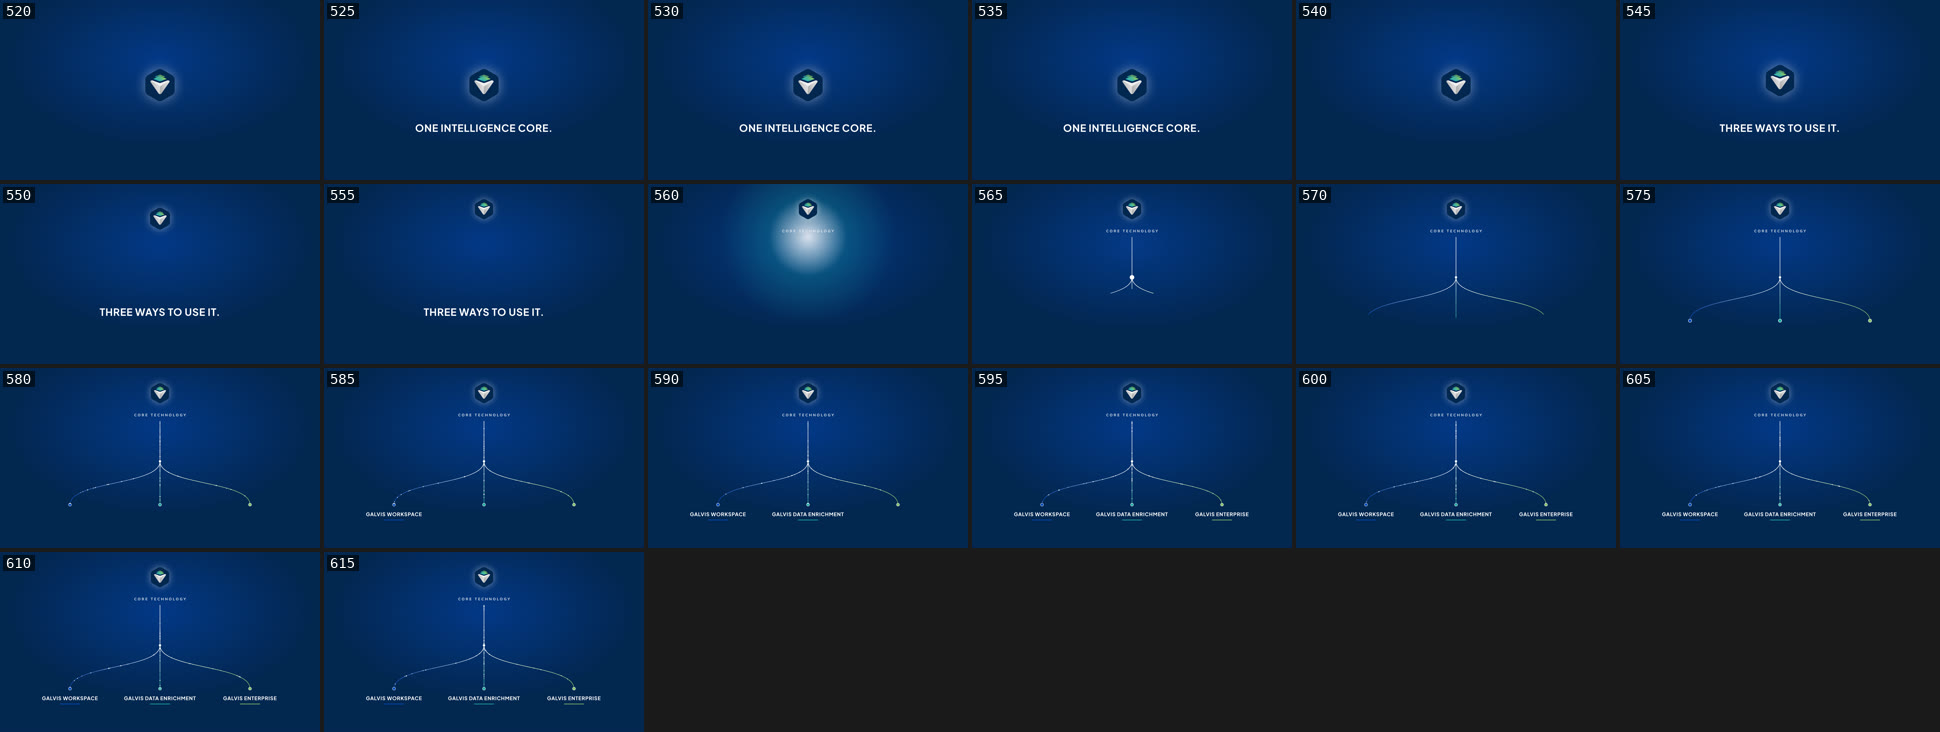
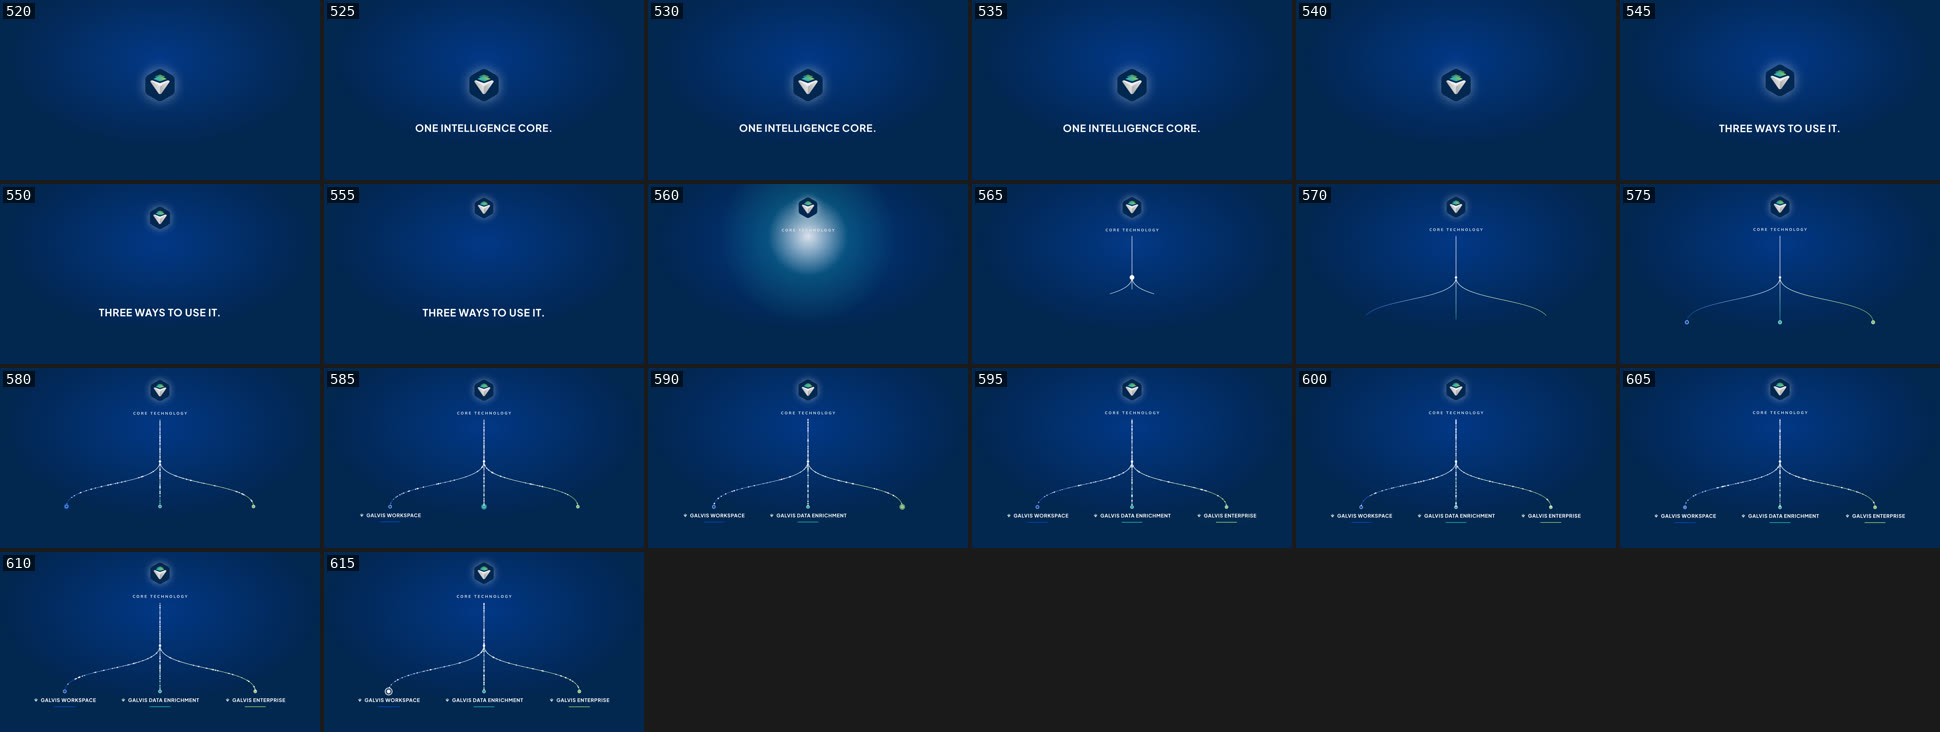
feat(galvis-film): full animation act 05
Slow camera push; logo-system lockups land on the sonic logo with colour glows
and ring pulses; denser flow; the left branch is chosen and blooms into the
disc act 06 opens from (GV.HANDOFF).

Claude-Session: https://claude.ai/code/session_0187RN5xC2Ne3Dptw6LeZ6Ei

diff --git a/projects/galvis-launch-film/compositions/05-products.html b/projects/galvis-launch-film/compositions/05-products.html
@@ -20,13 +20,20 @@
           position: absolute; left: 0; right: 0; top: 730px; text-align: center;
           font-family: var(--font-display); font-weight: 700; font-size: 60px; letter-spacing: 0.04em; color: var(--white);
         }
-        .act05-products-lockup { position: absolute; top: 858px; width: 460px; margin-left: -230px; text-align: center; }
+        #act05-products-cam { position: absolute; inset: 0; transform-origin: 960px 540px; }
+        #act05-products-bloom { position: absolute; left: 395px; top: 795px; width: 50px; height: 50px; border-radius: 50%; background: var(--light-gray); opacity: 0; box-shadow: 0 0 30px 8px rgba(245, 246, 248, 0.6); }
+        .act05-products-lockup { position: absolute; top: 852px; width: 520px; margin-left: -260px; text-align: center; }
         .act05-products-lockup b {
-          display: block; font-family: var(--font-display); font-weight: 700; font-size: 30px; letter-spacing: 0.06em; color: var(--white);
+          display: inline-flex; align-items: center; gap: 12px; font-family: var(--font-display); font-weight: 700; font-size: 28px; letter-spacing: 0.06em; color: var(--white); white-space: nowrap;
         }
+        .act05-products-lockup s { position: absolute; left: 20px; right: 20px; top: -18px; bottom: -14px; border-radius: 40px; opacity: 0; text-decoration: none; }
+        .act05-products-lockup b span { position: relative; display: inline-block; width: 30px; height: 33px; }
+        .act05-products-lockup b span > div { position: absolute; inset: 0; }
+        .act05-products-lockup b span svg { width: 100%; height: 100%; display: block; }
         .act05-products-lockup i { display: block; width: 120px; height: 4px; margin: 14px auto 0; border-radius: 2px; }
       </style>
       <div id="act05-products-root" data-composition-id="act05-products" data-width="1920" data-height="1080">
+        <div id="act05-products-cam">
         <div id="act05-products-glow"></div>
         <div id="act05-products-pulse"></div>
         <svg id="act05-products-net" viewBox="0 0 1920 1080"></svg>
@@ -35,6 +42,8 @@
         <div id="act05-products-core"></div>
         <div id="act05-products-one" class="act05-products-say"></div>
         <div id="act05-products-three" class="act05-products-say"></div>
+        <div id="act05-products-bloom"></div>
+        </div>
       </div>
       <script>
         GV.register('act05-products', async (tl) => {
@@ -82,34 +91,49 @@
           const paths = [...svg.querySelectorAll('path')];
           const lens = paths.map((p) => p.getTotalLength());
           const rnd = GV.seeded(5);
-          const riders = paths.flatMap((_, i) => Array.from({ length: 14 }, () => ({ i, phase: rnd(), speed: 0.35 + rnd() * 0.3, r: 1.5 + rnd() * 2.2, a: 0.5 + rnd() * 0.5 })));
+          const riders = paths.flatMap((_, i) => Array.from({ length: 36 }, () => ({ i, phase: rnd(), speed: 0.35 + rnd() * 0.3, r: 1.8 + rnd() * 2.6, a: 0.55 + rnd() * 0.45 })));
+          const DIM_AT = A(31, 3);
           const fctx = $('flow').getContext('2d');
           const drawFlow = (t) => {
             fctx.clearRect(0, 0, 1920, 1080);
             const on = Math.min(1, Math.max(0, (t - A(29, 3)) / 0.5));
             if (!on) return;
+            const dim = GV.since(t, DIM_AT, 0.2);
             for (const p of riders) {
               const u = (p.phase + t * p.speed) % 1;
               const pt = paths[p.i].getPointAtLength(u * lens[p.i]);
-              fctx.globalAlpha = p.a * on;
+              fctx.globalAlpha = p.a * on * (p.i >= 2 ? 1 - 0.7 * dim : 1);
               fctx.fillStyle = '#FFFFFF';
               fctx.beginPath(); fctx.arc(pt.x, pt.y, p.r, 0, Math.PI * 2); fctx.fill();
             }
           };
+          // A slow camera push through the whole act keeps the holds alive (1.0 → CAM_END, eased).
+          const push = (t) => gsap.set($('cam'), { scale: 1 + (GV.CAM_END - 1) * (t / 10) * (t / 10) * (3 - 2 * (t / 10)) });
           const clock = { t: 0 };
-          tl.to(clock, { t: 10, duration: 10, ease: 'none', onUpdate: () => drawFlow(clock.t) }, 0);
+          tl.to(clock, { t: 10, duration: 10, ease: 'none', onUpdate: () => { drawFlow(clock.t); push(clock.t); } }, 0);
+          push(0);
 
           const lockups = [];
           for (const [i, [key, color]] of BRANCHES.entries()) {
             const lock = document.createElement('div');
             lock.className = `${id}-lockup`;
             lock.style.left = `${ENDS[i][0]}px`;
+            // Logo-system lockup: the mark, then the product name.
             const name = document.createElement('b');
-            name.textContent = GV.COPY[key];
+            const mini = document.createElement('span');
+            mount(mini, `${id}-lock${i}`);
+            const word = document.createElement('em');
+            word.style.fontStyle = 'normal';
+            word.textContent = GV.COPY[key];
+            name.append(mini, word);
             const bar = document.createElement('i');
             bar.style.background = color;
-            lock.append(name, bar);
-            root.append(lock);
+            // A soft glow in the product's colour, flashed when the lockup lands on its note.
+            const glow = document.createElement('s');
+            glow.style.background = `radial-gradient(ellipse at 50% 50%, rgba(255,255,255,0.4), ${color}cc 38%, ${color}00 72%)`;
+            lock.append(glow, name, bar);
+            lock.glow = glow;
+            $('cam').append(lock);
             lockups.push(lock);
           }
 
@@ -118,7 +142,7 @@
           tl.to($('mark'), { y: 0, scale: 1, duration: 1.6, ease: 'power3.inOut' }, A(28));
           const say = (el, inAt, outAt) => {
             gsap.set(el, { opacity: 0, y: 24 });
-            tl.to(el, { opacity: 1, y: 0, duration: 0.5, ease: 'power3.out' }, inAt);
+            tl.to(el, { opacity: 1, y: 0, duration: 0.5, ease: 'expo.out' }, inAt);
             tl.to(el, { opacity: 0, duration: 0.3 }, outAt);
           };
           say($('one'), A(27), A(27, 3));
@@ -141,9 +165,33 @@
           tl.to(circles[0], { scale: 1, duration: 0.4 }, A(29) + 0.65);
           tl.to([...circles].slice(1), { opacity: 1, scale: 1, duration: 0.3, ease: 'back.out(2)' }, A(29) + 1.3);
 
-          // Bar 30: the three names land with the three notes of the sonic logo.
-          gsap.set(lockups, { opacity: 0, y: 20 });
-          lockups.forEach((lock, k) => tl.to(lock, { opacity: 1, y: 0, duration: 0.4, ease: 'power3.out' }, A(30, k)));
+          // Bar 30: the three lockups land with the three notes of the sonic logo, each with a ring
+          // pulse at its branch end.
+          const NSV = 'http://www.w3.org/2000/svg';
+          const rings = ENDS.map(([x, y], k) => {
+            const c = document.createElementNS(NSV, 'circle');
+            c.setAttribute('cx', x); c.setAttribute('cy', y); c.setAttribute('r', 9);
+            c.setAttribute('fill', 'none'); c.setAttribute('stroke', BRANCHES[k][1]); c.setAttribute('stroke-width', 4); c.setAttribute('opacity', 0);
+            svg.append(c);
+            return c;
+          });
+          gsap.set(lockups, { opacity: 0, y: 24 });
+          lockups.forEach((lock, k) => {
+            tl.to(lock, { opacity: 1, y: 0, duration: 0.45, ease: 'expo.out' }, A(30, k));
+            tl.set(lockups[k].glow, { opacity: 1 }, A(30, k));
+            tl.to(lockups[k].glow, { opacity: 0, duration: 0.7, ease: 'power2.out' }, A(30, k) + 1 / 30);
+            tl.set(rings[k], { attr: { r: 14 }, opacity: 1 }, A(30, k));
+            tl.to(rings[k], { attr: { r: 60 }, opacity: 0, duration: 0.6, ease: 'power2.out' }, A(30, k) + 1 / 30);
+          });
+
+          // Last beat: the left branch is chosen. The others dim, and its end blooms into a light disc —
+          // the shape act 06 opens the Workspace window from (GV.HANDOFF.workspace).
+          tl.to([paths[2], paths[3], circles[2], circles[3], lockups[1], lockups[2]], { opacity: 0.3, duration: 0.2, ease: 'expo.out' }, DIM_AT);
+          gsap.set($('bloom'), { opacity: 0, scale: 0.36 });
+          tl.set($('bloom'), { opacity: 1 }, DIM_AT);
+          tl.set(rings[0], { attr: { r: 20 }, opacity: 1, stroke: '#F5F6F8' }, DIM_AT);
+          tl.to(rings[0], { attr: { r: 110 }, opacity: 0, duration: 0.45, ease: 'power2.out' }, DIM_AT + 1 / 30);
+          tl.to($('bloom'), { scale: 1, duration: 0.45, ease: 'expo.out' }, DIM_AT);
         }, 10);
       </script>
     </template>

diff --git a/projects/galvis-launch-film/shared/gv.js b/projects/galvis-launch-film/shared/gv.js
@@ -23,9 +23,11 @@ var GV = (() => {
     ACTS: () => ACTS,
     BAYER4: () => BAYER4,
     BRAND_RAMP: () => BRAND_RAMP,
+    CAM_END: () => CAM_END,
     COPY: () => copy_default,
     CUES: () => cues_default,
     DURATION: () => DURATION,
+    HANDOFF: () => HANDOFF,
     IMPACTS: () => IMPACTS,
     RIAU_SVG: () => province_riau_default,
     SEA_POINTS: () => sea_points_default,
@@ -340,10 +342,13 @@ var GV = (() => {
       { t: 46.5, act: "act04-core", what: "module ml active", box: [500, 540, 260, 260] },
       { t: 48.5, act: "act04-core", what: "module decision active", box: [660, 280, 260, 260] },
       { t: 50, act: "act04-core", what: "question answered", box: [580, 48, 760, 70] },
+      { t: 52, act: "act05-products", what: "ONE INTELLIGENCE CORE.", box: [480, 730, 960, 80] },
+      { t: 54, act: "act05-products", what: "THREE WAYS TO USE IT.", box: [480, 730, 960, 80] },
       { t: 56, act: "act05-products", what: "impact: split", box: [0, 0, 1920, 1080] },
       { t: 58, act: "act05-products", what: "GALVIS WORKSPACE", box: [190, 840, 460, 80] },
       { t: 58.5, act: "act05-products", what: "GALVIS DATA ENRICHMENT", box: [730, 840, 460, 80] },
       { t: 59, act: "act05-products", what: "GALVIS ENTERPRISE", box: [1270, 840, 460, 80] },
+      { t: 61.5, act: "act05-products", what: "left branch chosen, others dim", box: [730, 830, 1e3, 100] },
       { t: 70, act: "act06-workspace", what: "step 1 done", box: [1290, 560, 500, 380] },
       { t: 71, act: "act06-workspace", what: "step 2 done", box: [1290, 560, 500, 380] },
       { t: 72, act: "act06-workspace", what: "step 3 done", box: [1290, 560, 500, 380] },
@@ -378,8 +383,8 @@ var GV = (() => {
   var BRAND_RAMP = ["#032750", "#024ABC", "#1FAFA1", "#86C36A", "#FFFFFF"];
   var RAMP_RGB = BRAND_RAMP.map((h) => [1, 3, 5].map((i) => parseInt(h.slice(i, i + 2), 16)));
   var DEFAULTS = { cell: 3, levels: 4, palette: "landing", resolve: 0 };
-  function threshold(cx, cy) {
-    return (BAYER4[cy & 3][cx & 3] + 0.5) / 16;
+  function threshold(cx2, cy2) {
+    return (BAYER4[cy2 & 3][cx2 & 3] + 0.5) / 16;
   }
   function landing(rgb, t, levels) {
     const n = levels - 1;
@@ -396,9 +401,9 @@ var GV = (() => {
     const step = p - i > t ? 1 : 0;
     return RAMP_RGB[Math.min(i + step, n - 1)];
   }
-  function ditherCell(rgb, cx, cy, opts = {}) {
+  function ditherCell(rgb, cx2, cy2, opts = {}) {
     const { levels, palette, resolve } = { ...DEFAULTS, ...opts };
-    const t = threshold(cx, cy);
+    const t = threshold(cx2, cy2);
     const d = palette === "brand" ? brand(rgb, t) : landing(rgb, t, levels);
     return d.map((v, k) => Math.round(v + (rgb[k] - v) * resolve));
   }
@@ -412,12 +417,12 @@ var GV = (() => {
     const last = RAMP_RGB.length - 1;
     const T = new Float64Array(16);
     for (let y = 0; y < 4; y++) for (let x = 0; x < 4; x++) T[y * 4 + x] = (BAYER4[y][x] + 0.5) / 16;
-    for (let cy = 0; cy < ch; cy++) {
-      const row = (cy & 3) * 4;
-      for (let cx = 0; cx < cw; cx++) {
-        const i = (cy * cw + cx) * 4;
+    for (let cy2 = 0; cy2 < ch; cy2++) {
+      const row = (cy2 & 3) * 4;
+      for (let cx2 = 0; cx2 < cw; cx2++) {
+        const i = (cy2 * cw + cx2) * 4;
         if (data[i + 3] === 0) continue;
-        const t = T[row + (cx & 3)];
+        const t = T[row + (cx2 & 3)];
         const r = data[i], g = data[i + 1], b = data[i + 2];
         let dr, dg, db;
         if (palette === "brand") {
@@ -722,8 +727,8 @@ var GV = (() => {
   }
 
   // shared/curtain.js
-  function bayerVisible(cx, cy, progress) {
-    return (BAYER4[cy & 3][cx & 3] + 0.5) / 16 < progress;
+  function bayerVisible(cx2, cy2, progress) {
+    return (BAYER4[cy2 & 3][cx2 & 3] + 0.5) / 16 < progress;
   }
   function mountCurtain(canvas, color, cell = 12) {
     const ctx = canvas.getContext("2d");
@@ -733,8 +738,8 @@ var GV = (() => {
         if (progress >= 1) return;
         ctx.fillStyle = color;
         const cw = Math.ceil(canvas.width / cell), ch = Math.ceil(canvas.height / cell);
-        for (let cy = 0; cy < ch; cy++) for (let cx = 0; cx < cw; cx++) {
-          if (!bayerVisible(cx, cy, progress)) ctx.fillRect(cx * cell, cy * cell, cell, cell);
+        for (let cy2 = 0; cy2 < ch; cy2++) for (let cx2 = 0; cx2 < cw; cx2++) {
+          if (!bayerVisible(cx2, cy2, progress)) ctx.fillRect(cx2 * cell, cy2 * cell, cell, cell);
         }
       }
     };
@@ -766,10 +771,10 @@ var GV = (() => {
 
   // shared/motion/ease.js
   function cubicBezier(x1, y1, x2, y2) {
-    const cx = 3 * x1, bx = 3 * (x2 - x1) - cx, ax = 1 - cx - bx;
-    const cy = 3 * y1, by = 3 * (y2 - y1) - cy, ay = 1 - cy - by;
-    const sx = (u) => ((ax * u + bx) * u + cx) * u;
-    const sy = (u) => ((ay * u + by) * u + cy) * u;
+    const cx2 = 3 * x1, bx = 3 * (x2 - x1) - cx2, ax = 1 - cx2 - bx;
+    const cy2 = 3 * y1, by = 3 * (y2 - y1) - cy2, ay = 1 - cy2 - by;
+    const sx = (u) => ((ax * u + bx) * u + cx2) * u;
+    const sy = (u) => ((ay * u + by) * u + cy2) * u;
     return (x) => {
       if (x <= 0) return 0;
       if (x >= 1) return 1;
@@ -790,12 +795,12 @@ var GV = (() => {
   }
 
   // shared/motion/paths.js
-  function vortexPoint([sx, sy], [cx, cy], k, turns = 1.25) {
-    const r0 = Math.hypot(sx - cx, sy - cy);
-    const a0 = Math.atan2(sy - cy, sx - cx);
+  function vortexPoint([sx, sy], [cx2, cy2], k, turns = 1.25) {
+    const r0 = Math.hypot(sx - cx2, sy - cy2);
+    const a0 = Math.atan2(sy - cy2, sx - cx2);
     const a = a0 + turns * 2 * Math.PI * k;
     const r = r0 * Math.pow(1 - k, 1.6);
-    const x = cx + r * Math.cos(a), y = cy + r * Math.sin(a);
+    const x = cx2 + r * Math.cos(a), y = cy2 + r * Math.sin(a);
     return { x: k === 0 ? sx : x, y: k === 0 ? sy : y, scale: 1 - 0.85 * k, rotation: turns * 360 * k };
   }
   function lerpRect(a, b, k) {
@@ -803,5 +808,13 @@ var GV = (() => {
     for (const key of ["x", "y", "w", "h", "r"]) out[key] = a[key] + (b[key] - a[key]) * k;
     return out;
   }
+
+  // shared/handoff.js
+  var CAM_END = 1.06;
+  var END = [420, 820];
+  var R = 25;
+  var pushed = ([x, y]) => [960 + (x - 960) * CAM_END, 540 + (y - 540) * CAM_END];
+  var [cx, cy] = pushed(END);
+  var HANDOFF = { workspace: { cx, cy, r: R * CAM_END } };
   return __toCommonJS(index_exports);
 })();

diff --git a/projects/galvis-launch-film/shared/handoff.js b/projects/galvis-launch-film/shared/handoff.js
@@ -1,0 +1,8 @@
+// Frames shared across an act boundary, so both sides compute the same place.
+// Act 05 pushes its camera from 1.0 to CAM_END about the frame centre; the left branch end then blooms
+// into a light disc, which act 06 opens its window from.
+export const CAM_END = 1.06;
+const END = [420, 820], R = 25;
+const pushed = ([x, y]) => [960 + (x - 960) * CAM_END, 540 + (y - 540) * CAM_END];
+const [cx, cy] = pushed(END);
+export const HANDOFF = { workspace: { cx, cy, r: R * CAM_END } };

diff --git a/projects/galvis-launch-film/shared/index.js b/projects/galvis-launch-film/shared/index.js
@@ -20,3 +20,4 @@ export { mountCurtain, bayerVisible } from './curtain.js';
 export { register } from './register.js';
 export { cubicBezier, UI_EASE, since } from './motion/ease.js';
 export { vortexPoint, lerpRect } from './motion/paths.js';
+export { HANDOFF, CAM_END } from './handoff.js';
